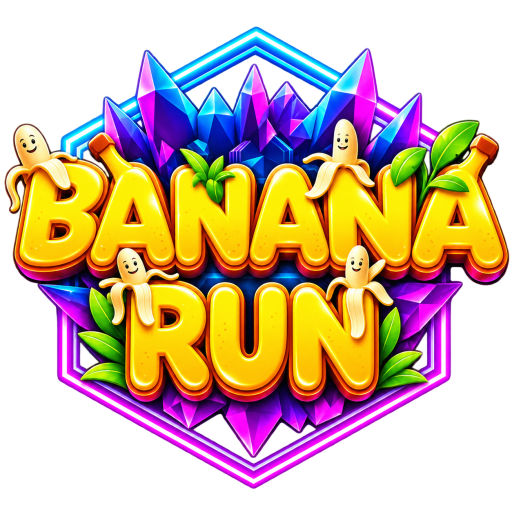
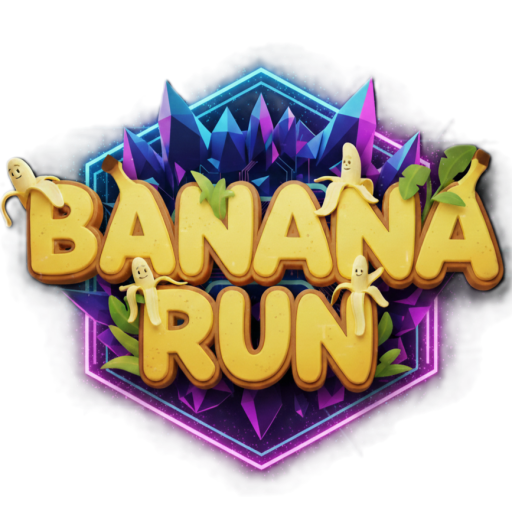
Add files via upload

diff --git a/index.html b/index.html
@@ -1,13 +1,14 @@
 <!DOCTYPE html>
+
 <html lang="en">
 <head>
-  <meta charset="UTF-8">
-  <meta name="viewport" content="width=device-width, initial-scale=1">
-  <meta name="theme-color" content="#100c22">
-  <meta name="description" content="Official Banana Run account deletion request page by LebGames. Learn how to request deletion of your account and game data.">
-  <title>Banana Run | Account Deletion</title>
-  <link rel="icon" type="image/png" href="BananaIcon.png">
-  <style>
+<meta charset="utf-8"/>
+<meta content="width=device-width, initial-scale=1" name="viewport"/>
+<meta content="#100c22" name="theme-color"/>
+<meta content="Official Banana Run account deletion request page by LebGames. Learn how to request deletion of your account and game data." name="description"/>
+<title>Banana Run | Account Deletion</title>
+<link href="BananaIcon.png" rel="icon" type="image/png"/>
+<style>
     :root { color-scheme: dark; font-family: system-ui, -apple-system, "Segoe UI", Roboto, sans-serif; --bg:#100c22; --panel:#1b1734; --line:#443663; --text:#faf6ff; --muted:#d1c9e2; --gold:#ffd36b; --purple:#b987ff; }
     * { box-sizing: border-box; }
     html { scroll-behavior: smooth; }
@@ -33,47 +34,54 @@
     footer { text-align:center; margin-top:36px; border-top:1px solid var(--line); padding-top:22px; color:#afa6c9; font-size:.9rem; }
     @media(max-width:520px) { main { padding:20px 16px 48px; } .logo { width:min(275px,85vw); } .button { width:100%; } }
     @media(prefers-reduced-motion:reduce) { html { scroll-behavior:auto; } }
-  </style>
+  
+/* Shared LEBGAMES legal-site visual identity */
+.site-header{background:#140e29f0;border-bottom:1px solid #493263}
+.header-inner{max-width:1120px;margin:auto;padding:13px 22px;display:flex;align-items:center;justify-content:space-between;gap:18px;flex-wrap:wrap}
+.brand{display:inline-flex;align-items:center}.brand img{display:block;width:160px;max-height:60px;height:auto;object-fit:contain}
+.site-header nav{display:flex;gap:17px;align-items:center;flex-wrap:wrap}
+.site-header nav a{color:#d8cce8;font-size:.91rem;font-weight:650;text-decoration:none}
+.site-header nav a:hover,.site-header nav a[aria-current=page]{color:#ffd363}
+.hero .logo{width:clamp(108px,20vw,165px);height:auto;aspect-ratio:1;object-fit:contain;margin:0 auto 20px;border-radius:25px}
+.hero h1{color:#fff}.panel h2{color:#ffd363}
+@media(max-width:700px){.header-inner{justify-content:center;text-align:center}.site-header nav{justify-content:center;gap:9px 16px}.site-header nav a{font-size:.83rem}}
+</style>
 </head>
-<body>
-  <main>
-    <header class="hero">
-      <img class="logo" src="BananaIcon.png" alt="Banana Run official game logo" width="512" height="493">
-      <p class="eyebrow">LebGames · Player support</p>
-      <h1>Request account deletion</h1>
-      <p class="intro">Request deletion of your Banana Run account and associated game data, even if you can no longer open the game.</p>
-    </header>
-
-    <section class="panel featured" aria-labelledby="request-title">
-      <h2 id="request-title">Send a deletion request</h2>
-      <ol>
-        <li>If you can open Banana Run, go to Account Settings and copy your <strong>Support Code</strong>.</li>
-        <li>Use the button below to email our support team. Include your Support Code if available and request deletion of your Banana Run account.</li>
-        <li>We may contact you to verify account ownership before processing the request.</li>
-      </ol>
-      <a class="button" href="mailto:support.lebgames@gmail.com?subject=Banana%20Run%20-%20Account%20Deletion%20Request&amp;body=Hello%20LebGames%2C%0A%0AI%20request%20deletion%20of%20my%20Banana%20Run%20account%20and%20associated%20data.%0A%0AMy%20Support%20Code%20(if%20available)%3A%20%0A%0AThank%20you.">Request deletion by email</a>
-      <p>Or email <a href="mailto:support.lebgames@gmail.com">support.lebgames@gmail.com</a> directly.</p>
-      <p class="note">Never send passwords or sign-in credentials. A Support Code can help locate an account but does not by itself prove ownership.</p>
-    </section>
-
-    <section class="panel" aria-labelledby="data-title">
-      <h2 id="data-title">What data is covered?</h2>
-      <p>Deletion requests cover the Banana Run account and its associated game data, where present:</p>
-      <ul>
-        <li>Unity Authentication account identity associated with Banana Run</li>
-        <li>Cloud-saved progress and game settings</li>
-        <li>Nickname, profile information, and uploaded profile picture</li>
-        <li>Friend relationships and leaderboard records</li>
-      </ul>
-      <p>Some information may be retained if required by applicable law or for legitimate security and compliance reasons. If this applies, we will explain the data retained and applicable retention period when responding to your request.</p>
-    </section>
-
-    <section class="panel" aria-labelledby="in-game-title">
-      <h2 id="in-game-title">Delete your account in the game</h2>
-      <p>If the feature is available in your installed version, open Banana Run's Account Settings, select <strong>Delete Account</strong>, and follow the confirmation steps. If the option is unavailable or fails, you can still request deletion using the email option above.</p>
-    </section>
-
-    <footer>Banana Run · LebGames · <a href="mailto:support.lebgames@gmail.com">support.lebgames@gmail.com</a></footer>
-  </main>
+<body><div class="site-header"><div class="header-inner"><a aria-label="LEBGAMES Banana Run website" class="brand" href="https://lebgames.github.io/BananaRun/"><img alt="LEBGAMES" src="assets/lebgames-logo.png" width="160"/></a><nav aria-label="Site navigation"><a href="https://lebgames.github.io/BananaRun/">Banana Run</a><a href="https://berjawiahmad.github.io/BananaRun-Legal/privacy-policy.html">Privacy Policy</a><a href="https://berjawiahmad.github.io/BananaRun-Legal/terms-and-conditions.html">Terms &amp; Conditions</a><a aria-current="page" href="https://berjawiahmad.github.io/banana-run-account-deletion/">Account Deletion</a></nav></div></div>
+<main>
+<header class="hero">
+<img alt="Official Banana Run game icon" class="logo" height="180" src="assets/banana-run-icon.png" width="180"/>
+<p class="eyebrow">LebGames · Player support</p>
+<h1>Request account deletion</h1>
+<p class="intro">Request deletion of your Banana Run account and associated game data, even if you can no longer open the game.</p>
+</header>
+<section aria-labelledby="request-title" class="panel featured">
+<h2 id="request-title">Send a deletion request</h2>
+<ol>
+<li>If you can open Banana Run, go to Account Settings and copy your <strong>Support Code</strong>.</li>
+<li>Use the button below to email our support team. Include your Support Code if available and request deletion of your Banana Run account.</li>
+<li>We may contact you to verify account ownership before processing the request.</li>
+</ol>
+<a class="button" href="mailto:support.lebgames@gmail.com?subject=Banana%20Run%20-%20Account%20Deletion%20Request&amp;body=Hello%20LebGames%2C%0A%0AI%20request%20deletion%20of%20my%20Banana%20Run%20account%20and%20associated%20data.%0A%0AMy%20Support%20Code%20(if%20available)%3A%20%0A%0AThank%20you.">Request deletion by email</a>
+<p>Or email <a href="mailto:support.lebgames@gmail.com">support.lebgames@gmail.com</a> directly.</p>
+<p class="note">Never send passwords or sign-in credentials. A Support Code can help locate an account but does not by itself prove ownership.</p>
+</section>
+<section aria-labelledby="data-title" class="panel">
+<h2 id="data-title">What data is covered?</h2>
+<p>Deletion requests cover the Banana Run account and its associated game data, where present:</p>
+<ul>
+<li>Unity Authentication account identity associated with Banana Run</li>
+<li>Cloud-saved progress and game settings</li>
+<li>Nickname, profile information, and uploaded profile picture</li>
+<li>Friend relationships and leaderboard records</li>
+</ul>
+<p>Some information may be retained if required by applicable law or for legitimate security and compliance reasons. If this applies, we will explain the data retained and applicable retention period when responding to your request.</p>
+</section>
+<section aria-labelledby="in-game-title" class="panel">
+<h2 id="in-game-title">Delete your account in the game</h2>
+<p>If the feature is available in your installed version, open Banana Run's Account Settings, select <strong>Delete Account</strong>, and follow the confirmation steps. If the option is unavailable or fails, you can still request deletion using the email option above.</p>
+</section>
+<footer>Banana Run · LebGames · <a href="mailto:support.lebgames@gmail.com">support.lebgames@gmail.com</a></footer>
+</main>
 </body>
 </html>

diff --git a/DEPLOY.md b/DEPLOY.md
@@ -1,0 +1,3 @@
+Account Deletion branding update for https://berjawiahmad.github.io/banana-run-account-deletion/
+
+Upload index.html and assets/ to the ROOT of the banana-run-account-deletion repository. Preserve other existing files including BananaIcon.png. No changes to legal instructions, deletion request email, or game data descriptions. The icon and logo are from the previously approved legal branding package. GitHub Pages must serve the repository root.
